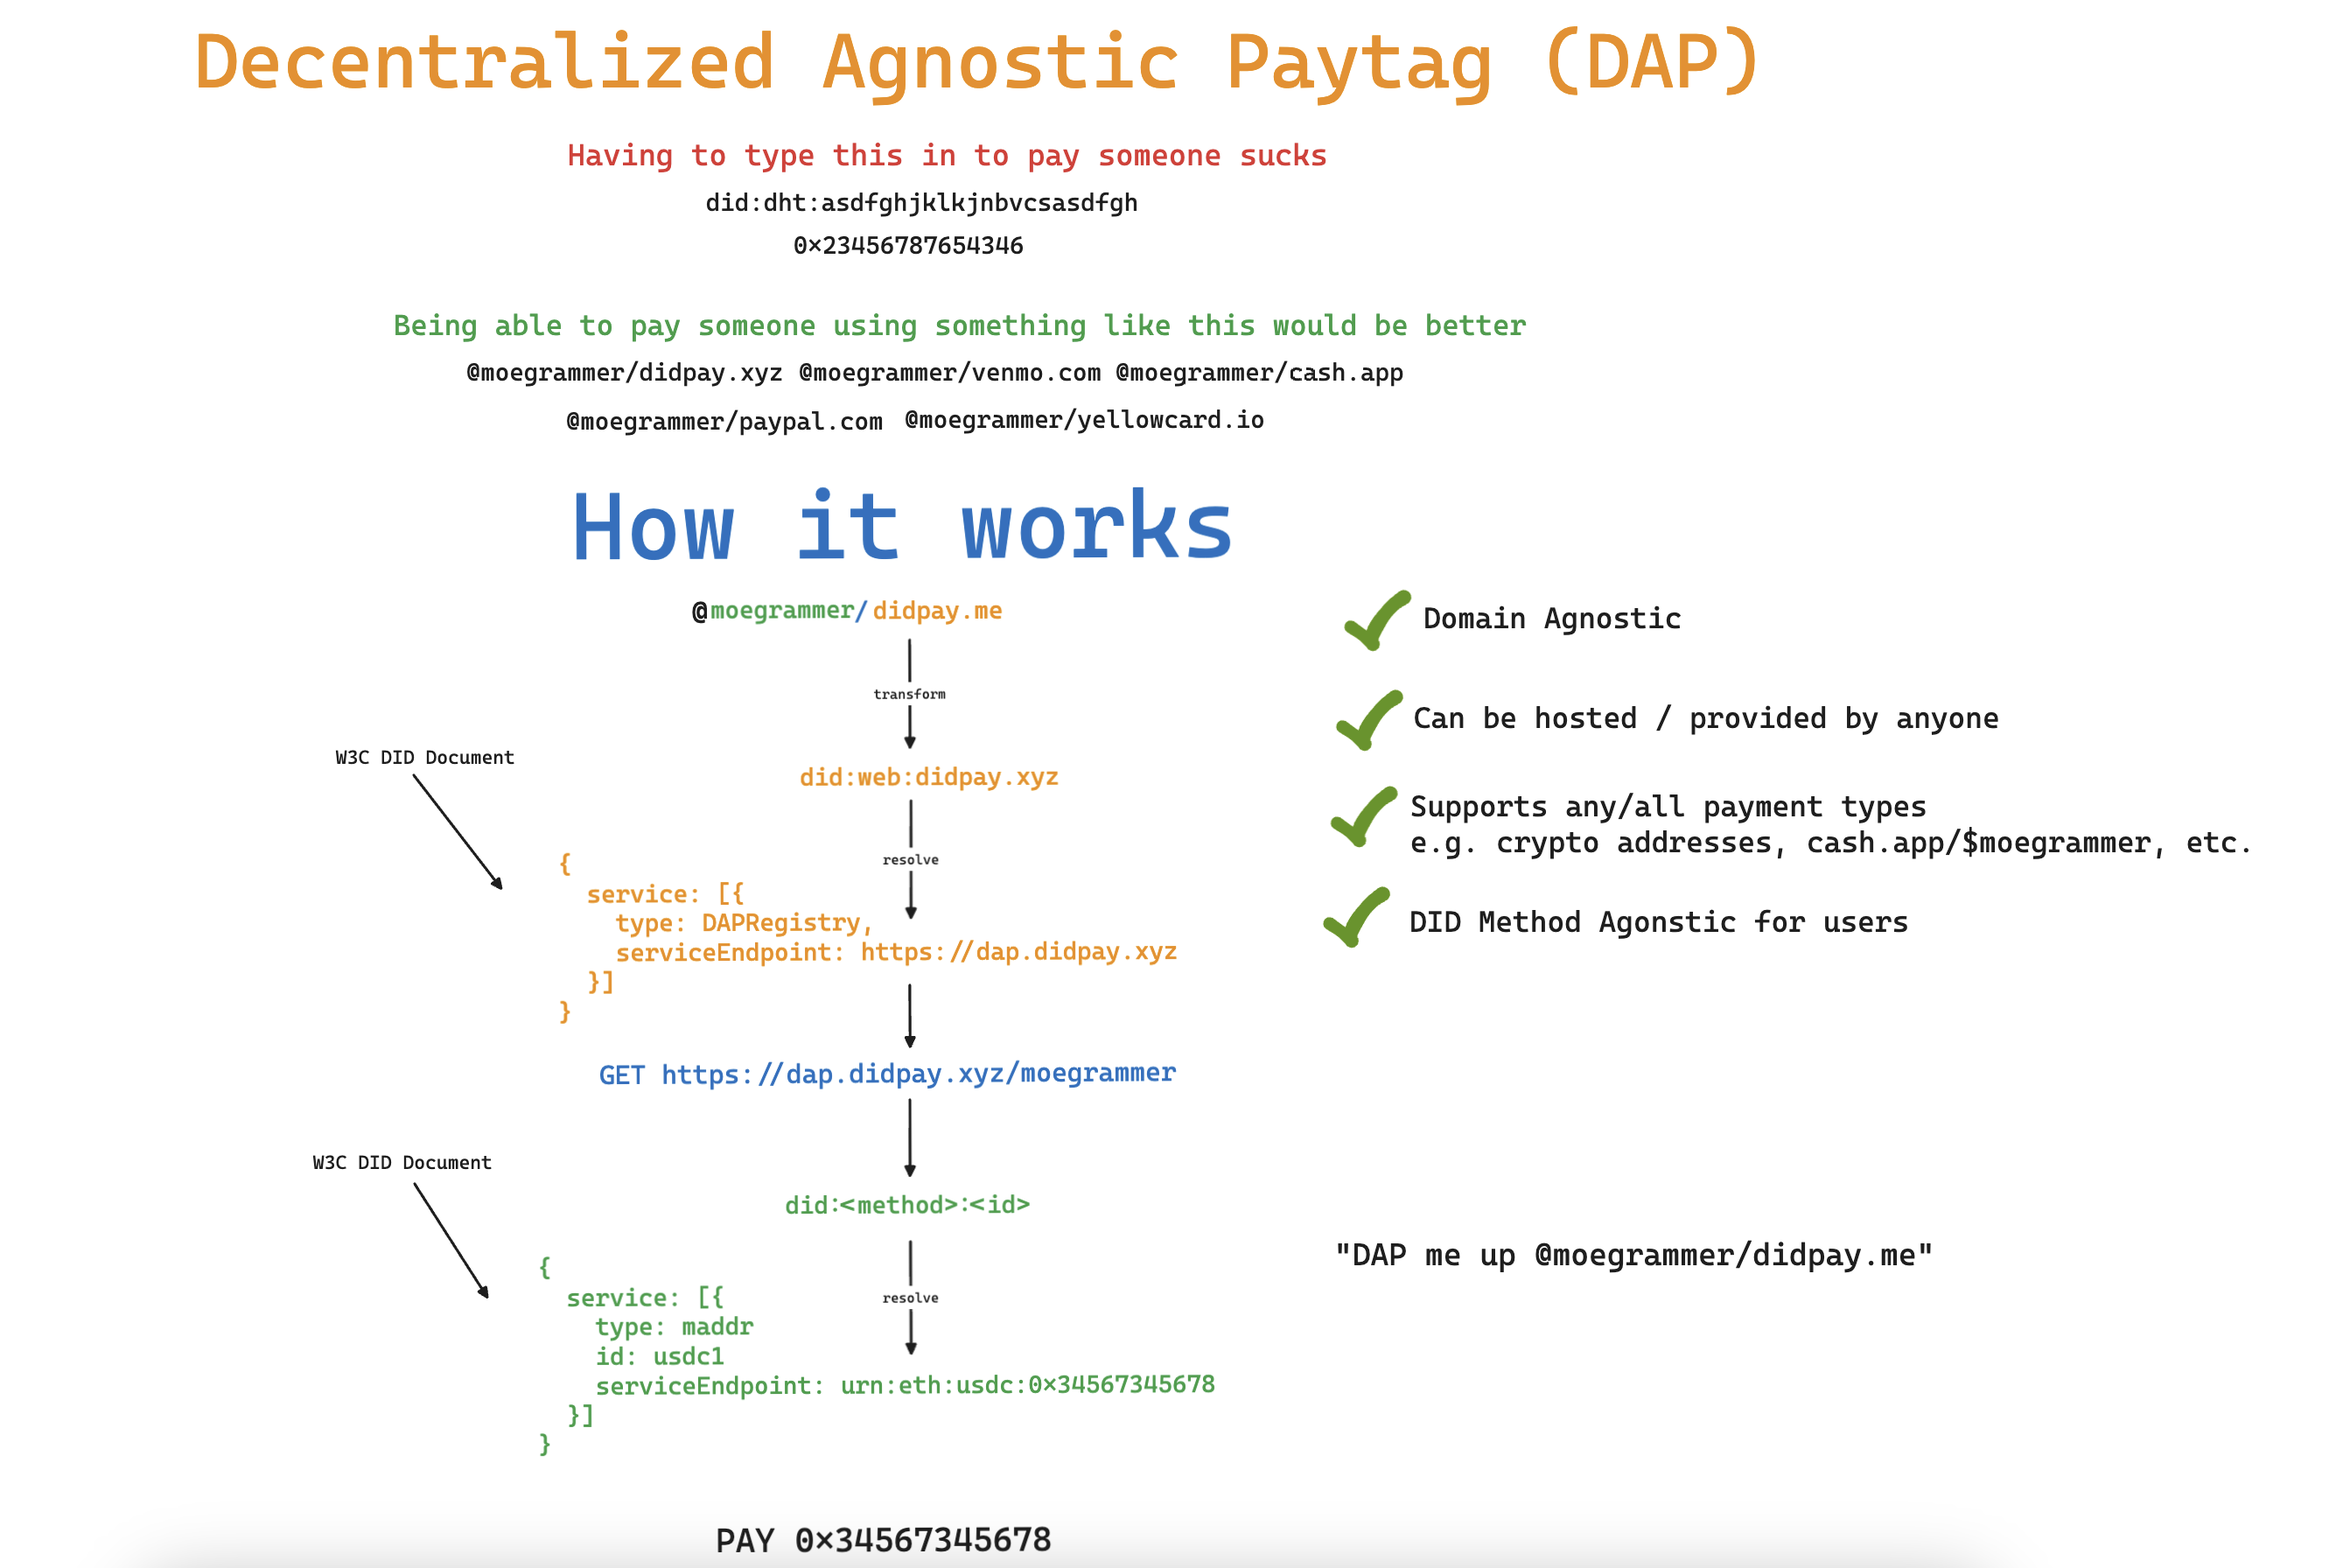
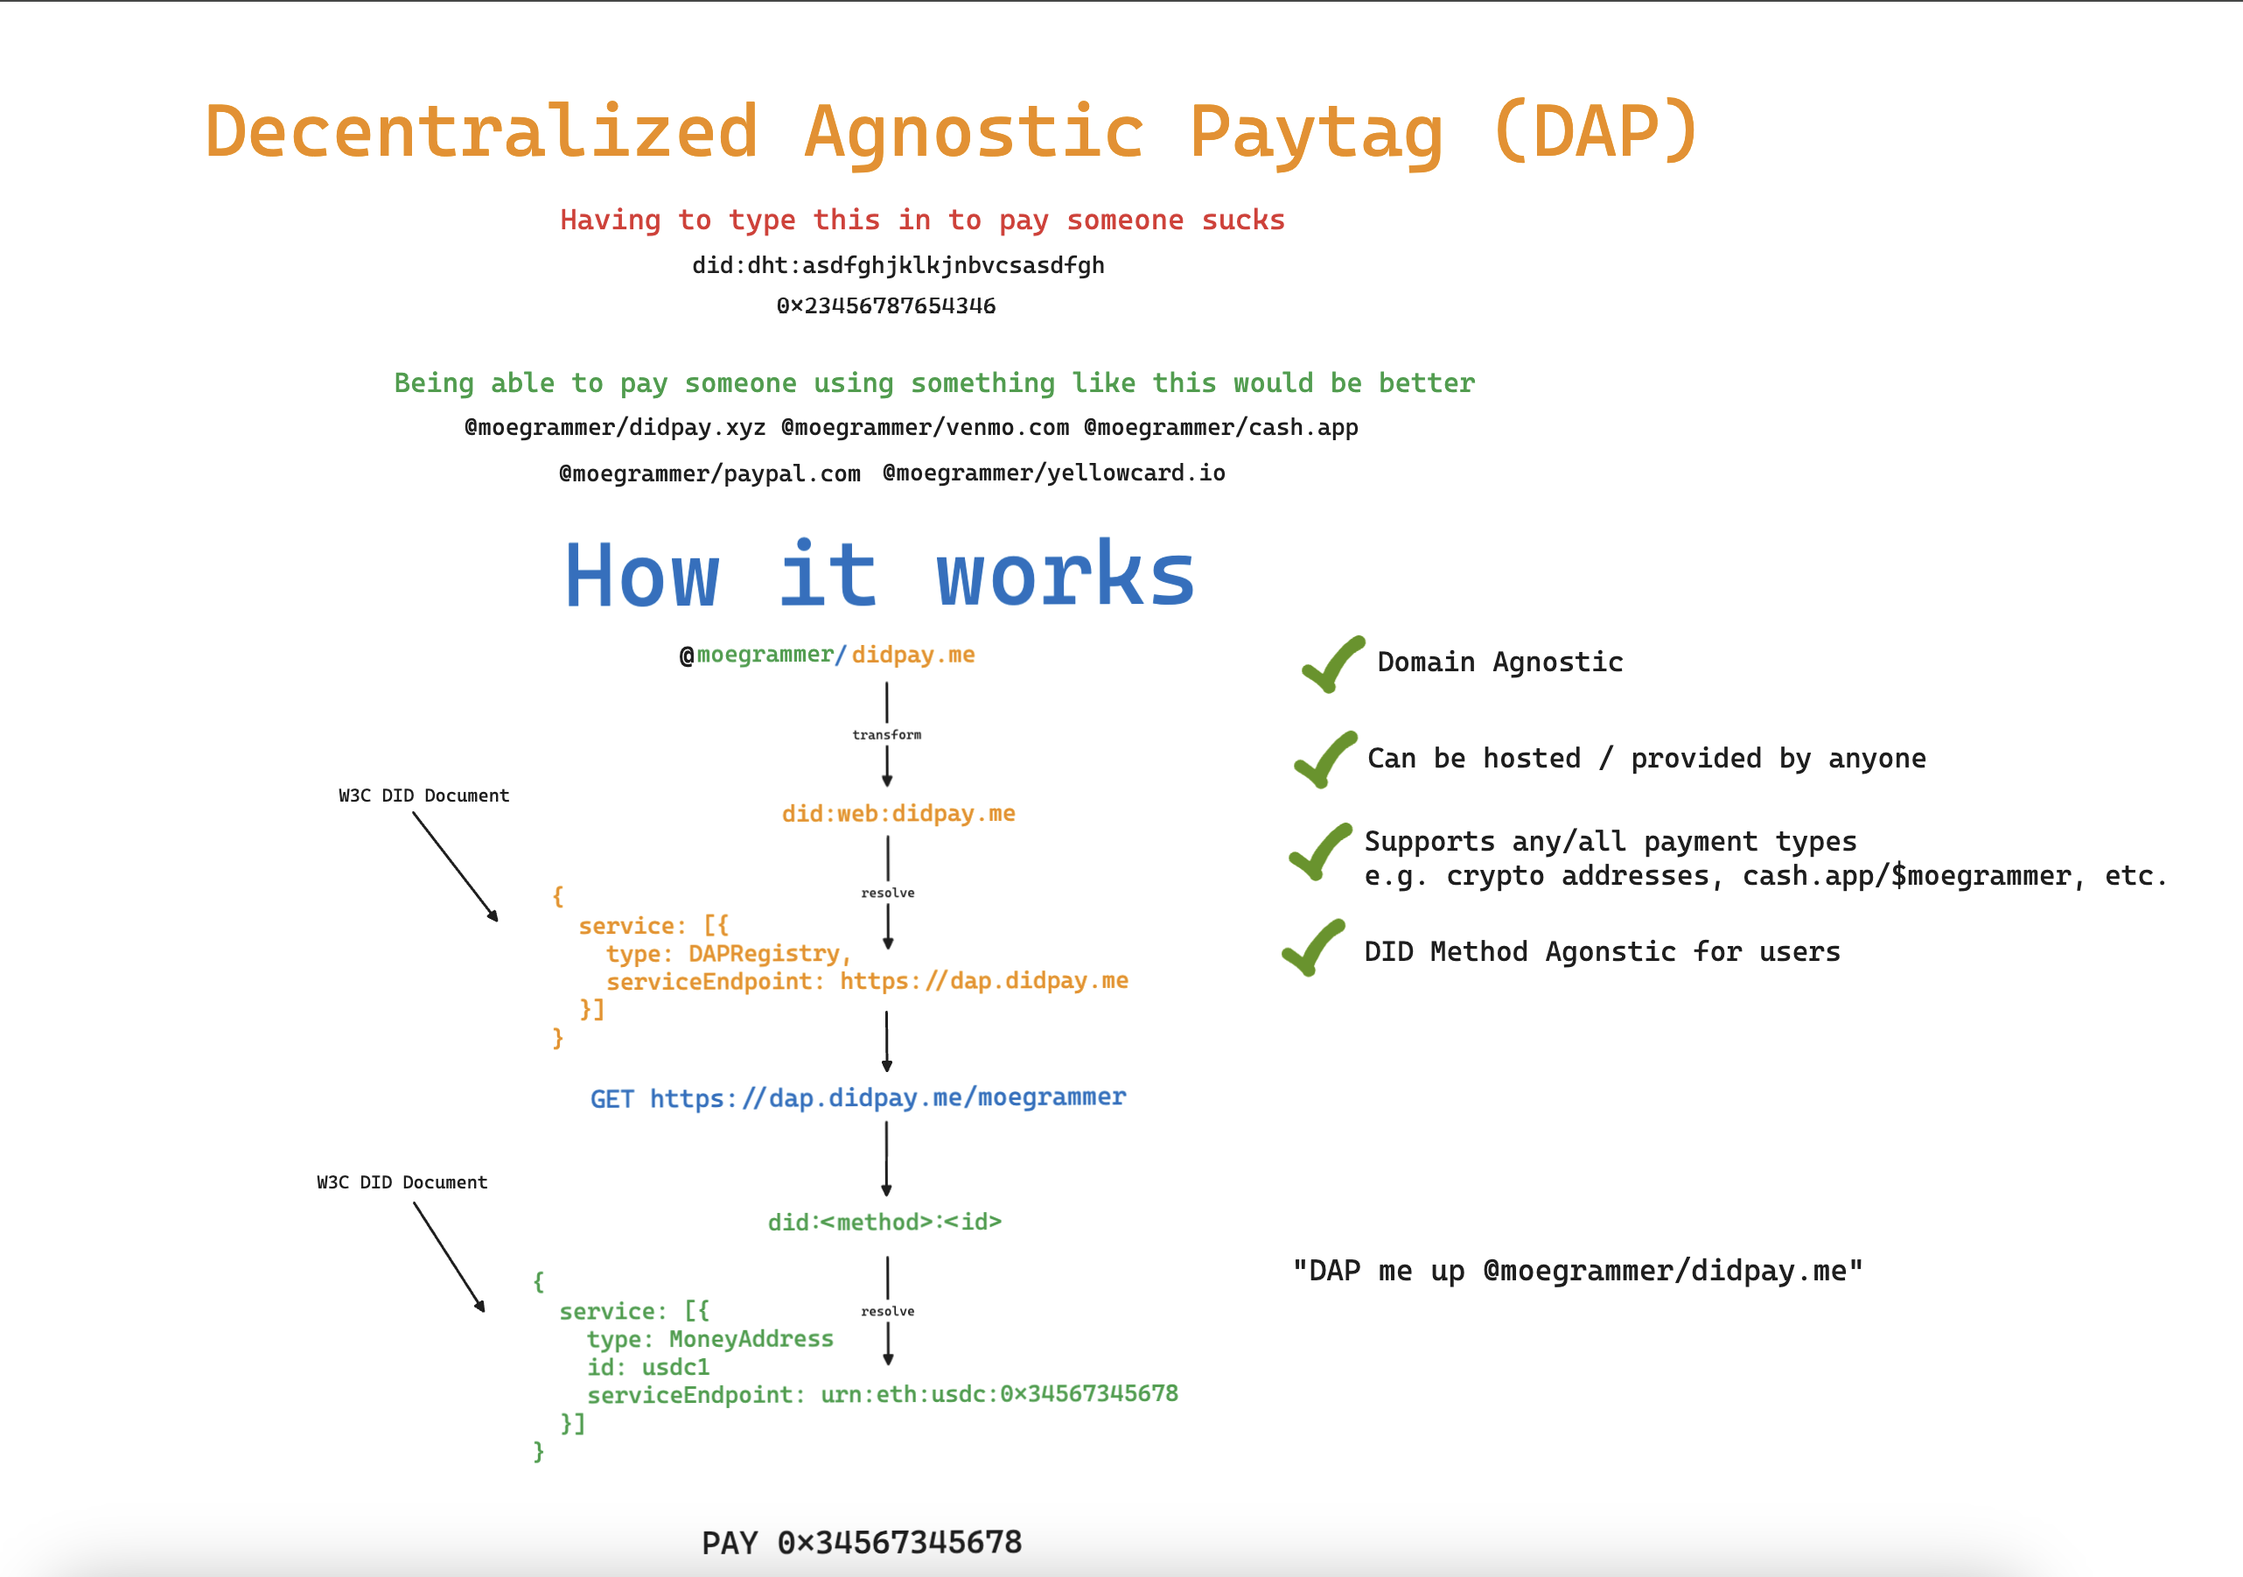
Rename service type values (#18)
* Rename service types

* update diagram

---------

diff --git a/README.md b/README.md
@@ -150,24 +150,24 @@ The domain portion of a DAP is used to identify the registry at which the DAP wa
 1. split the DAP into two parts, localHandle and domain using the last / as the delimiter. The @ is _not_ considered to be part of the local handle. 
 2. Construct a `did:web` DID using the domain as the method-specific identifier.
 3. [Resolve](https://www.w3.org/TR/did-core/#did-resolution) the resulting DID to retrieve the [DID Document](https://www.w3.org/TR/did-core/#dfn-did-documents).
-4. Find the `service` of type `dapregistry` in the [DID Document](https://www.w3.org/TR/did-core/#dfn-did-documents).
+4. Find the `service` of type `DAPRegistry` in the [DID Document](https://www.w3.org/TR/did-core/#dfn-did-documents).
 5. Use the `serviceEndpoint` of the resulting service to construct the following URL: `<serviceEndpoint>/daps/<local-handle>`.
 6. Make a GET request to the constructed URL.
 7. The response will contain the DID associated with the DAP.
 8. [Resolve](https://www.w3.org/TR/did-core/#did-resolution) the DID to retrieve the [DID Document](https://www.w3.org/TR/did-core/#dfn-did-documents).
-9. Find all of the `maddr` services in the [DID Document](https://www.w3.org/TR/did-core/#dfn-did-documents).
+9. Find all of the `MoneyAddress` services in the [DID Document](https://www.w3.org/TR/did-core/#dfn-did-documents).
 
 ## Example
 For the DAP `@moegrammer/cash.app`:
 1. Split into local handle `moegrammer` and domain `cash.app`.
 2. Construct a `did:web` DID: `did:web:cash.app`.
 3. Resolve `did:web:cash.app` to get the DID Document.
-4. Find the `dapregistry` service in the DID Document.
+4. Find the `DAPRegistry` service in the DID Document.
 5. Use the service endpoint to construct the URL: `<serviceEndpoint>/daps/moegrammer`.
 6. Make a GET request to this URL.
 7. The response contains the DID associated with `moegrammer/cash.app`.
 8. Resolve this DID to get the DID Document.
-9.  Find all `maddr` services in the DID Document.
+9.  Find all `MoneyAddress` services in the DID Document.
 
 # Money Address
 
@@ -244,13 +244,13 @@ A Money address is associated to a DID by representing it as a [Service](https:/
 > [!NOTE]
 > [Services](https://www.w3.org/TR/did-core/#services) are used in DID documents to express ways of communicating with the respected DID subject. A service can be any type of service the DID subject wants to advertise, including decentralized identity management services for further discovery, authentication, authorization, or interaction.
 
-Money addresses are represented as a service of type `maddr` in the DID Document. The service is structured as follows:
+Money addresses are represented as a service of type `MoneyAddress` in the DID Document. The service is structured as follows:
 
-| field             | value      | description                                                                |
-| :---------------- | :--------- | :------------------------------------------------------------------------- |
-| `type`            | `maddr`    | **MUST** always be `maddr`                                                 |
-| `id`              | `[]string` | an abitrary string that can be used to uniquely identify the money address |
-| `serviceEndpoint` | `[]string` | 1 or more payment address URNs                                             |
+| field             | value          | description                                                                |
+| :---------------- | :------------- | :------------------------------------------------------------------------- |
+| `type`            | `MoneyAddress` | **MUST** always be `MoneyAddress`                                          |
+| `id`              | `[]string`     | an abitrary string that can be used to uniquely identify the money address |
+| `serviceEndpoint` | `[]string`     | 1 or more payment address URNs                                             |
 
 > [!NOTE]
 > Any number of money addresses can be associated with a DID. They can be represented as individual service entries in the DID Document.
@@ -260,7 +260,7 @@ Money addresses are represented as a service of type `maddr` in the DID Document
 #### Example Service Entry
 ```json
 {
-  "type": "maddr",
+  "type": "MoneyAddress",
   "id": "#some-id",
   "serviceEndpoint": ["urn:<currency_code>:<curr_specific_part>"]
 }
@@ -277,7 +277,7 @@ Money addresses are represented as a service of type `maddr` in the DID Document
   "id": "did:dht:123456789abcdefghi",
   "service": [
     {
-      "type": "maddr",
+      "type": "MoneyAddress",
       "id": "#some-id",
       "serviceEndpoint": ["urn:usdc:eth:0x1234567890abcdef1234567890abcdef12345678"]
     }
@@ -301,7 +301,7 @@ A DAP Registry can be hosted by any individual or institution that controls a do
   "id": "did:web:cash.app",
   "service": [
     {
-      "type": "dapregistry",
+      "type": "DAPRegistry",
       "serviceEndpoint": ["https://dap.cash.app"],
       "id": "#some-id"
     }

diff --git a/spec/spec.md b/spec/spec.md
@@ -149,7 +149,7 @@ The steps to resolve a DAP are as follows:
 
 3. [Resolve](https://www.w3.org/TR/did-core/#did-resolution) the DID to retrieve the DID Document.
 
-4. Find the `dapregistry` service in the resolved [[ref:DID Document]].
+4. Find the `DAPRegistry` service in the resolved [[ref:DID Document]].
 
 5. Use the `serviceEndpoint` to construct the URL `<serviceEndpoint>/daps/<handle>`.
 
@@ -159,7 +159,7 @@ The steps to resolve a DAP are as follows:
 
 8. [Resolve](https://www.w3.org/TR/did-core/#did-resolution) the [[ref:DID]] to retrieve its [[ref:DID Document]].
 
-9. Find all `maddr` service(s) in the [[ref:DID Document]] which contain [[ref:money addresses]].
+9. Find all `MoneyAddress` service(s) in the [[ref:DID Document]] which contain [[ref:money addresses]].
 
 ### Money Address
 
@@ -196,13 +196,13 @@ In order for [[ref:Money Addresses]] to be of any practical use, conventions wil
 #### Representing Money Addresses in DID Documents
 
 [[ref:Money addresses]] are included in [[ref:DID Documents]] as [service](https://www.w3.org/TR/did-core/#services) 
-entries with type `maddr`. Each service contains these properties:
+entries with type `MoneyAddress`. Each service contains these properties:
 
-| Property         | Value      | Description                                                |
-|------------------|------------|------------------------------------------------------------|
-| `id`             | `string`   | Unique identifier for the address.                         | 
-| `type`           | `maddr`    | Always `maddr`. Identifies the service as a money address. |
-| `serviceEndpoint`| `[]string` | Array of 1 or more payment address URNs.                   |
+| Property         | Value          | Description                                                       |
+|------------------|----------------|-------------------------------------------------------------------|
+| `id`             | `string`       | Unique identifier for the address.                                |
+| `type`           | `MoneyAddress` | Always `MoneyAddress`. Identifies the service as a money address. |
+| `serviceEndpoint`| `[]string`     | Array of 1 or more payment address URNs.                          |
 
 :::note
 Any number of money addresses can be associated with a DID. They can be represented as individual service entries in the DID Document.
@@ -212,7 +212,7 @@ Any number of money addresses can be associated with a DID. They can be represen
 
 ```json
 {
-  "type": "maddr",
+  "type": "MoneyAddress",
   "id": "#btc-1",  
   "serviceEndpoint": ["urn:btc:addr:1LMcKyPmwebfygoeZP8E9jAMS2BcgH3Yip"]
 }
@@ -228,7 +228,7 @@ _Other fields in the DID Document have been omitted for brevity._
   "id": "did:dht:123456789abcdefghi",
   "service": [
     {
-      "type": "maddr",
+      "type": "MoneyAddress",
       "id": "#some-id",
       "serviceEndpoint": ["urn:usdc:eth:0x1234567890abcdef1234567890abcdef12345678"]
     }
@@ -245,13 +245,13 @@ To host a [[ref:DAP Registry]], a [[ref:domain]] ****MUST****:
 
 1. Host a resolvable `did:web` [[ref:DID Web]] DID Document at `https://<domain>/.well-known/did.json`.
 
-2. Advertise the DAP Registry in a `dapregistry` service as follows:
+2. Advertise the DAP Registry in a `DAPRegistry` service as follows:
 
 ```json
 {
   "id": "did:web:example.com", 
   "service": [{
-    "type": "dapregistry",
+    "type": "DAPRegistry",
     "serviceEndpoint": ["https://dap.example.com"] 
   }]
 }
